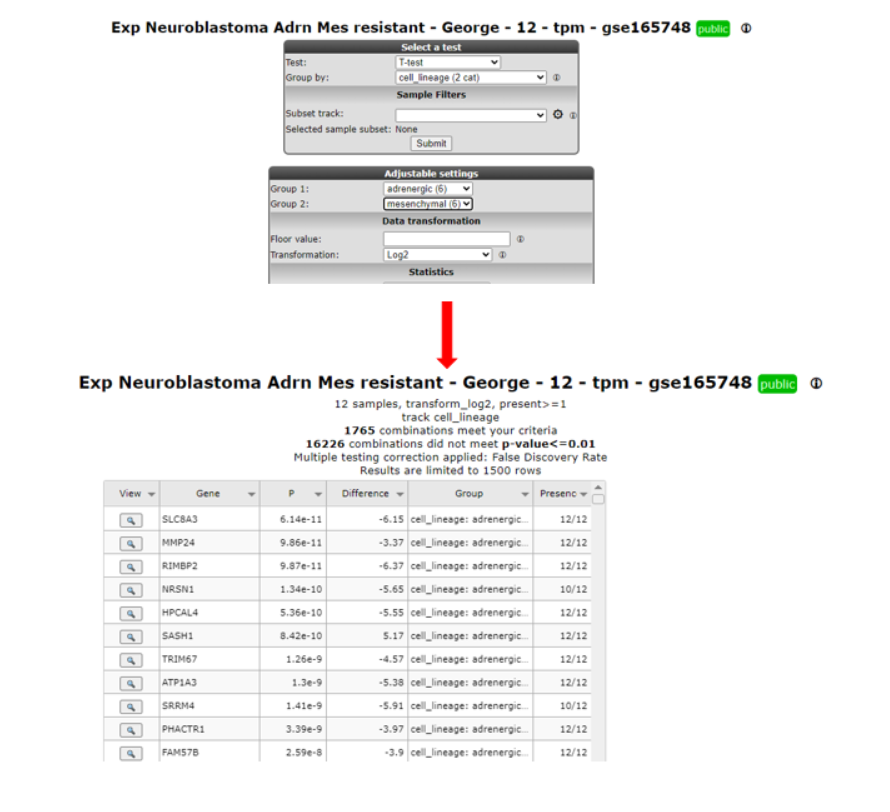
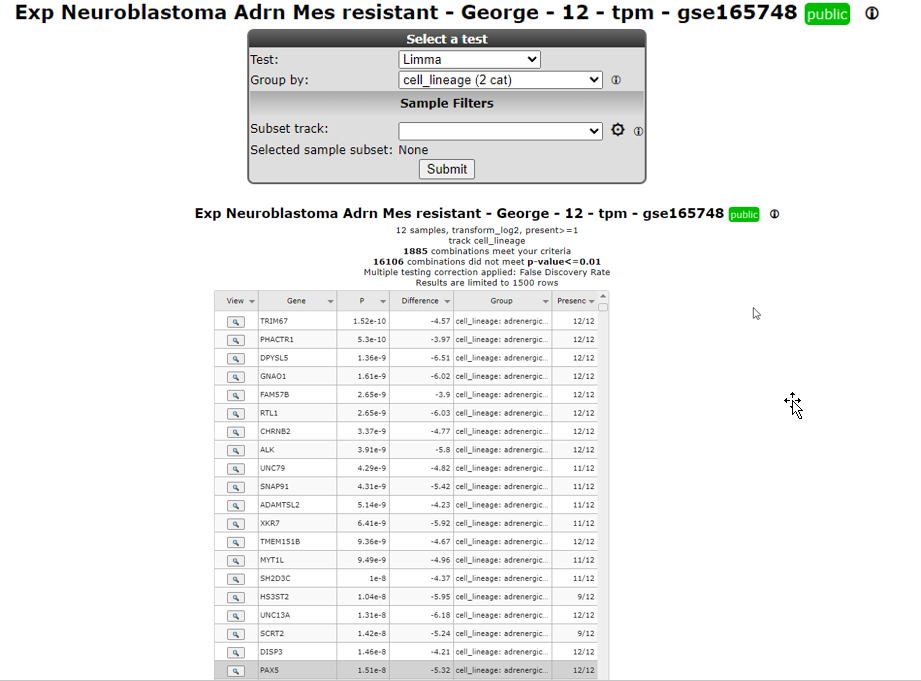
adding MA and vulcano plots options

Changed region(s): [[0.0, 0.0, 1.0, 1.0], [0.8494, 0.5859, 0.8798, 0.6167]]

diff --git a/docs/Differential_Expression.md b/docs/Differential_Expression.md
@@ -95,10 +95,10 @@ The actual result of the ANOVA calculations is shown in the table under the grap
   
 R2 displays the mRNA expression of the samples in a splitted plot in which per group the samples are ordered with increasing expression (Figure 4). Note that the "alive" annotation is in the second row (track) beneath the graph.
 
-   ![](_static/images/FindDiff/DifferentialExpress_Result.png "Figure 4: Order the samples per group with increasing expression.")
+   ![](_static/images/FindDiff/DifferentialExpress_Result.png "Figure 5: Order the samples per group with increasing expression.")
 
 
-[**Figure 4: Order the samples per group with increasing expression.**](_static/images/FindDiff/DifferentialExpress_Result.png)
+[**Figure 5: Order the samples per group with increasing expression.**](_static/images/FindDiff/DifferentialExpress_Result.png)
 
 These results can also be shown in different types of plots (Figure 5).
 1. Scroll down the window to the Adjustable settings menu.
@@ -106,9 +106,9 @@ These results can also be shown in different types of plots (Figure 5).
 3. Note that you can change the order of the groups with *Order Groups By*, let's take **median (numeric Y)** in our case.
 4. Click **Submit**. The resulting graph is adapted accordingly.
 
-![](_static/images/FindDiff/DifferentialExpression_AdaptGraphDotPlots.png "Figure 5: Adapting the Graph type to Dot plot, change order and set Color by Track")
+![](_static/images/FindDiff/DifferentialExpression_AdaptGraphDotPlots.png "Figure 6: Adapting the Graph type to Dot plot, change order and set Color by Track")
 
-[**Figure 5: Adapting the Graph type to Dot plot, change order and set Color by Track**](_static/images/FindDiff/DifferentialExpression_AdaptGraphDotPlots.png)
+[**Figure 6: Adapting the Graph type to Dot plot, change order and set Color by Track**](_static/images/FindDiff/DifferentialExpression_AdaptGraphDotPlots.png)
 
 
 The difference in expression between the groups can be shown more dramatically by plotting the data without a log2 transformation. Make sure to use log2 transformation in scientific reports, though, as untransformed mRNA gene expression data is hardly ever normally distributed.
@@ -118,9 +118,9 @@ The difference in expression between the groups can be shown more dramatically b
 
 The resulting 2 graphs also depicted in different types of plots in Figure 6 show the difference between the expression values in the two groups more dramatically.
 
-![](_static/images/FindDiff/DifferentialExpression_Barplotv1.png "Figure 6: The same data now represented without transformation in bar/box plots")
+![](_static/images/FindDiff/DifferentialExpression_Barplotv1.png "Figure 7: The same data now represented without transformation in bar/box plots")
 
-[**Figure  6: The same data now represented without transformation in bar/box plots**](_static/images/FindDiff/DifferentialExpression_Barplotv1.png)
+[**Figure  7: The same data now represented without transformation in bar/box plots**](_static/images/FindDiff/DifferentialExpression_Barplotv1.png)
 
 ------------------
 ![](_static/images/R2d2_logo.png)**Did you know that samples can be filtered and/or marked?**
@@ -129,7 +129,7 @@ The resulting 2 graphs also depicted in different types of plots in Figure 6 sho
 
 ![](_static/images/FindDiff/DifferentialExpress_SampleFilterDropdown.png)
 
-[**Figure 7: Sample selection with the Sample Filter**](_static/images/FindDiff/DifferentialExpress_SampleFilterDropdown.png)
+[**Figure 8: Sample selection with the Sample Filter**](_static/images/FindDiff/DifferentialExpress_SampleFilterDropdown.png)
 
 
 
@@ -137,14 +137,14 @@ The resulting 2 graphs also depicted in different types of plots in Figure 6 sho
 
 ![](_static/images/FindDiff/DifferentialExpress_SampleFilterAdvanced.png)
 
-[**Figure 7: Advanced sample selection**](_static/images/FindDiff/DifferentialExpress_SampleFilterAdvanced.png)
+[**Figure 9: Advanced sample selection**](_static/images/FindDiff/DifferentialExpress_SampleFilterAdvanced.png)
 
-*In the samples to mark section, a sample name can be entered that will be highlighted in the resulting graph; ideal for publication purposes.*
+*In the samples to mark section, a sample name can be entered that will be highlighted in the resulting graph; ideal for publication purposes. Also note that in the interactive plot section you can mark samples by clicking on the dots.*
 
 
 ![](_static/images/FindDiff/DifferentialExpress_SampleFilterMarkedSample.png)
 
-[**Figure 7: Graph with sample selection INSS 3 and 4 and a marked sample**](_static/images/FindDiff/DifferentialExpress_SampleFilterMarkedSample.png)
+[**Figure 10: Graph with sample selection INSS 3 and 4 and a marked sample**](_static/images/FindDiff/DifferentialExpress_SampleFilterMarkedSample.png)
 
 
 --------
@@ -156,9 +156,9 @@ It would be a pretty tedious job to look for all genes whether they are differen
 2. In field 3 of the R2 step-by-step guide you find two options to find differential expressed gene lists: 'Find Differential expression between two groups' and  Differential expression between multiple groups (Figure 8). 
 3. Both types of Differential expression modules harbor specific statistical tests. Depending on your chosen dataset, number of groups you want to test and the type of data (RNAseq,microarrays) you can choose from several statistical tests.
 
-   ![](_static/images/FindDiff/DifferentialExpression_Selectgroups.png "Figure 8: Selecting Find Differential Expression.")
+   ![](_static/images/FindDiff/DifferentialExpression_Selectgroups.png "Figure 11: Selecting Find Differential Expression.")
 
-   [**Figure 8: Selecting Find Differential Expression.**](_static/images/FindDiff/DifferentialExpression_Selectgroups.png)
+   [**Figure 11: Selecting Find Differential Expression.**](_static/images/FindDiff/DifferentialExpression_Selectgroups.png)
 
 4. Select **"Differential expression between two groups"** and click **Next**.
   
@@ -170,9 +170,9 @@ A special remark for the **DESeq2 algorithm** is at place here. This test is onl
 Using the DESEq2 algorithm in case of RNAseq is often appreciated since this is a well established statistical test package dedicated to data such as RNAseq data. In the dataset selection grid box you can search for datasets which have **deseq2_rlog** or **deseq2_vst** as normalization procedure. Datasets with this annotation have three slots, rlog normalized data, deseq normalized data (normcounts) and a counts slot. This counts slot is used when you run the DESeq2 algorithm on the fly for two group comparisons.  
 
 
-   ![](_static/images/FindDiff/DifferentialExpress_deseq2select.png "Figure 9: Selecting Find Differential Expression.")
+   ![](_static/images/FindDiff/DifferentialExpress_deseq2select.png "Figure 12: Selecting Find Differential Expression.")
 
-   [**Figure 9: Selecting the DESEq2 test.**](_static/images/FindDiff/DifferentialExpress_deseq2select.png)
+   [**Figure 12: Selecting the DESEq2 test.**](_static/images/FindDiff/DifferentialExpress_deseq2select.png)
 
 
 
@@ -184,25 +184,25 @@ In our case we continue with the Tumor Neuroblastoma dataset and the Differentia
 1. Now we also make the choice for the two groups. Select behind *Group by* the track **Alive (2cat)** again. Click **Submit**.  
 
 
-   ![](_static/images/FindDiff/DifferentialExpress_AdaptParamv1.png "Figure 10: Differential expression parameters")
+   ![](_static/images/FindDiff/DifferentialExpress_AdaptParamv1.png "Figure 13: Differential expression parameters")
 
-   [**Figure 10: Differential expression parameters**](_static/images/FindDiff/DifferentialExpress_AdaptParamv1.png)
+   [**Figure 13: Differential expression parameters**](_static/images/FindDiff/DifferentialExpress_AdaptParamv1.png)
 
 3. An extra menu shows up with many options. For now we only adjust the required Group 1 and Group 2 setting: we choose the value **no (33)** for *Group 1* and **yes (55)** for *Group 2*.
 4.  Click **Submit**.
 
-![](_static/images/DifferentialExpress_Progress.png "Figure 11: Progress dialog during on the fly calculation")
+![](_static/images/DifferentialExpress_Progress.png "Figure 14: Progress dialog during on the fly calculation")
 
-   [**Figure 11: Progress dialog during on the fly calculation**](_static/images/DifferentialExpress_Progress.png)
+   [**Figure 14: Progress dialog during on the fly calculation**](_static/images/DifferentialExpress_Progress.png)
 
-The result is a list of genes that is ordered by the most significant differential expression between the groups that you chose (Figure 12). A short summary of the calculation is given above the table; ~ 2600 genes have met the criteria set by default; their expression exhibits a correlation with the separation in the two groups.  
+The result is a list of genes that is ordered by the most significant differential expression between the groups that you chose (Figure 15). A short summary of the calculation is given above the table; ~ 2600 genes have met the criteria set by default; their expression exhibits a correlation with the separation in the two groups.  
 The generated list can be sorted or filtered by any of the column headers in the grid, such as by the p-value (P) or the difference.  
   
 In the right menu numerous modules can be selected to continue the analysis. Also, the generated list can be extracted to continue for further usage outside R2. As indicated in the right menu
 
-   ![](_static/images/FindDiff/DifferentialExpress_Genelistv2.png "Figure 13: Genes differentially expressed between groups")
+   ![](_static/images/FindDiff/DifferentialExpress_Genelistv2.png "Figure 15 Genes differentially expressed between groups")
 
-   [**Figure 13: Genes differentially expressed between groups.**](_static/images/FindDiff/DifferentialExpress_Genelistv2.png)
+   [**Figure 15: Genes differentially expressed between groups.**](_static/images/FindDiff/DifferentialExpress_Genelistv2.png)
 
 
 -----------------
@@ -210,7 +210,7 @@ In the right menu numerous modules can be selected to continue the analysis. Als
 Step 5: Correct for paired analysis
 ---------------
 
-A paired analysis is ofted performed when observations are natural paired or matched such as in this example. 
+A paired analysis is often performed when observations are natural paired or matched such as in this example. 
 
 1. Select in the main screen the following dataset. Exp Neuroblastoma Adrn Mes resistant - George - 12 - tpm - gse165748 and differential expression between two groups, select group by cell_lineage and click submit. Subsequently select adrenergic and mesenchymal for the groups and click the lower submit button.  Take a look at the number of found combinations and continue with adapting the settings in the adjustable settings box below the list of combinations.
 
@@ -218,13 +218,13 @@ A paired analysis is ofted performed when observations are natural paired or mat
 
    [**Figure 14: Genes differentially expressed between groups.**](_static/images/FindDiff/DifferentialExpres_nocorrectfor.png).
 
-2. In the select a test box, select Limma and again for Group by: Cell_lineage and click submit. Adrenergic and mesenchymal for the groups and now you can select track you want to correct for in this case, the  genomic_mycn_status, click the lower submit button.
+2. In the select a test box, select Limma and again for Group by: Cell_lineage and click submit. Select Adrenergic and mesenchymal for the groups and now you can select a track you want to correct for in this case, the  genomic_mycn_status, click the lower submit button.
 
    ![](_static/images/FindDiff/DifferentialExpres_withcorrectfor.png "Figure 15: Genes differentially expressed between groups")
 
    [**Figure 15: Genes differentially expressed between groups with correction.**](_static/images/FindDiff/DifferentialExpres_withcorrectfor.png)
 
-3. After correction for the genomic_mycn status more genes are found to be significant differentially expressed between the two groups. For example also the PAX5 gene appears in the list which could be a candidate for further investigation.
+3. After correction for the genomic_mycn status more genes are found to be significant differentially expressed between the two groups. For example also the PAX5 gene appears higher and more significant in the list which could be a candidate for further investigation.
 
    ![](_static/images/FindDiff/DifferentialExpres_withcorPAX5.png "Figure 16: Genes differentially expressed between groups")
 
@@ -264,9 +264,9 @@ As mentioned above, Find Differential Expression for multiple groups can also be
 2. Select **Differential expression between multiple groups** and click **Next**
 3. Select for *Group by* the value **inss (5 cat)** and leave all the other settings at their default value. Click **Submit**.
 
-![](_static/images/FindDiff/DifferentialExpress_AdaptParamv2.png "Figure 11: Genes differentially expressed between groups")
+![](_static/images/FindDiff/DifferentialExpress_AdaptParamv2.png "Figure 17: Genes differentially expressed between groups")
 
-[**Figure 11: Genes differentially expressed between groups.**](_static/images/FindDiff/DifferentialExpress_AdaptParamv2.png)
+[**Figure 17: Genes differentially expressed between groups.**](_static/images/FindDiff/DifferentialExpress_AdaptParamv2.png)
 
 4. A list of differentially expressed genes between the groups is generated. Of course, now that we have more than two groups, the table no longer contains the Difference column and group order column.
 
@@ -277,81 +277,75 @@ Step 7: Inspecting single genes
 
 1. Choose one of the genes in the table to inspect further.
 2. Hover over the magnify symbol in the list next to the gene name to find a description of the gene. 
-3. Now click on the magnify symbol. A similar graph is produced as for MYCN, the differential
-    expression is more pronounced for this gene (Figure 12).
+3. Now click on the magnify symbol. A similar graph is produced as for TF, the differential
+    expression is more pronounced for this gene (Figure 18). In stage 4s, even indicating  based on the TF expresion that there is possible subgroup within the INSS 4s stage.
 4. In the
     generated picture the samples are not ordered by their gene
     expression. Go to the adjustable settings menu and select **Track and
     gene sort** in the *Extra Graph Option* pulldown menu. Click
     **Submit**.
 
-![](_static/images/FindDiff/DifferentialExpress_TopGene.png "Figure 12: Hover over and click on any gene of interest")
+![](_static/images/FindDiff/DifferentialExpress_TopGene.png "Figure 18: Hover over and click on any gene of interest")
 
-[**Figure 12: Hover over and click on any gene of interest**](_static/images/FindDiff/DifferentialExpress_TopGene.png)
+[**Figure 18: Hover over and click on any gene of interest**](_static/images/FindDiff/DifferentialExpress_TopGene.png)
 
 
 --------------
 Step 8: Plot all genes and adapt visualization: Volcano plot etc
 ---------------
 
-1.  The tab with the list of differentially expressed genes (Figure 11) is still open. Click on this tab.
+1.  The tab with the list of differentially expressed genes (Figure 15) is still open. Click on this tab.
 2.  Most of the functionalities in the right panel of this window will be explored
     in more advanced tutorials (K-Means clustering etc.). We will explore one
     additional data visualization however to plot all genes of this
-    analysis. In the right menu click see Figure 11 'Plot all genes (xy,
+    analysis. In the right menu click see Figure 15 'Plot all genes (xy,
     volcano, etc.)'.
 
-
-
-3. The resulting plot shows all genes of the list in a XY-plot; datapoints above and below the diagonal are
+3. The resulting plot shows all genes of the list in a XY-plot, MA-plot and vulcano plot depending on your choice; in case of the XY datapoints above and below the diagonal are
    differentially expressed. Hovering over the points shows the
-   genesymbol, in this case the NTRK1 gene (Figure 16). To speed up the
+   genesymbol, clicking on the dots will annotate the dots with the gene name., To speed up the
    graph generation this information is not automatically loaded: click
    on the "add hovering" button below the graph to add
    this information. Note: every plot in R2 with larger amounts of
-   datapoints (>5000) will have this "add hovering" button.
+   datapoints (>5000) will have this "add hovering" button. Adapting the plot parameters in the Adjustable settings menu will also adapt the graph on the fly.
 
-   ![](_static/images/FindDiff/DifferentialExpress_XYplot.png "Figure    13: XY plot of all genes differentially expressed in the current    track;")
+   ![](_static/images/FindDiff/DifferentialExpress_vulcanoplot.png "Figure 19: Different plots of all genes differentially expressed in the current track;")
 
-   [**Figure 13: XY plot of all genes differentially expressed in the current    track;**](_static/images/FindDiff/DifferentialExpress_XYplot.png)
+   [**Figure 19: XY, MA , Vulcano plot of all genes differentially expressed in the current    track;**](_static/images/FindDiff/DifferentialExpress_vulcanoplot.png)
 
-4. Clicking on the datapoint in the plot opens up a new window showing the expression
-   of the gene in the two groups as a box plot.
+4. Right clicking on the datapoint in the plot opens up a new window showing the expression
+   of the gene in the two groups as a violin plot.
 
-   ![](_static/images/FindDiff/DifferentialExpress_BoxdotplotCircle.png "Figure    14: Differential expression of    NTRK1")
+   ![](_static/images/FindDiff/DifferentialExpress_Violinplot.png "Figure  20: Differential expression of MYCN")
 
-   [**Figure 14: Differential expression of    NTRK1**](_static/images/FindDiff/DifferentialExpress_BoxdotplotCircle.png)
+   [**Figure  20 : Differential expression of MYCN**](_static/images/FindDiff/DifferentialExpress_Violinplot.png)
 
-5. R2 allows further annotation of the XY plot of all genes; in the XY
-   plot window (still open in your browser) scroll down and adapt the
-   settings; add a genesymbol to mark, eg AKR1C1; choose a KEGG pathway
-   to emphasize, e.g. DNA replication and set the 'Draw fold lines'
-   option to 'yes'.
 
-   ![](_static/images/FindDiff/DifferentialExpress_AdjustAllgenesv1.png "Figure    15: Adjustable settings for the all genes plot")
 
-   [**Figure 15: Adjustable settings for the all genes plot**](_static/images/FindDiff/DifferentialExpress_AdjustAllgenesv1.png)
-
-6. Click redraw image. The plot has been adapted to show the AKR1C1
-   genesymbol, DNA-replication genes are highlighted in red. Fold
+6. The plot has been adapted to show the AKR1C1
+   genesymbol also  DNA-replication genes are highlighted in red. Fold
    change lines show the regions where differential expression is 1 and
    2 fold (Figure 16). Note that most genes of the DNA replication
    pathway seem to be located below the diagonal.
 
-   ![](_static/images/FindDiff/DifferentialExpres_graphtypes.png "Figure    16: Adjusted visualization of gene expression,hovering over the dots    shows the    gene name.")
+   ![](_static/images/FindDiff/DifferentialExpres_DNArepl.png "Figure 21: Adjusted visualization of gene expression,hovering over the dots    shows the    gene name.")
 
-   [**Figure 16: Adjusted visualization of gene expression,hovering over the dots shows the    gene name.**](_static/images/FindDiff/DifferentialExpres_graphtypes.png)
+   [**Figure 21: Adjusted visualization of gene expression,hovering over the dots shows the    gene name.**](_static/images/FindDiff/DifferentialExpres_DNArepl.png)
 
 7. R2 can visualize the same data also as a Volcano plot or an MA plot.
    In the Adjustable Settings dialog change the Plot type to Volcano or
-   MA (Figure 16). Note that the distinct
+   MA (Figure 21). Note that the distinct
    characteristics of the AKR1C1 gene and the DNA replication are more
    obvious in the Volcano plot. The DNA replication pathway statistics
    will be explored in more detail in the 'Find genes correlating with
    your gene of interest'-tutorial
 
+8. In another example in the selected Coloncarcinoma TCGA set, some Ribosomal gene categories which were selected in the gene filter. The KRT16-gene was selected and adapted in the Adjustable settings box.
+
+   ![](_static/images/FindDiff/DifferentialExpression_vulcano_emphasize.png "Figure 22: Adjustable settings for the all genes plot")
 
 
+[**Figure 22 : Adjustable settings for the all genes plot**](_static/images/FindDiff/DifferentialExpression_vulcano_emphasize.png)
 
 --------------
 Step 9: Using the Enrichr
@@ -359,20 +353,21 @@ Step 9: Using the Enrichr
 
 The right menu also allows you to take your result list of differentially expressed genes (DEG) outside R2 to the public available Enrichr platform. Enrichr (https://maayanlab.cloud/Enrichr/enrich) is a web-based platform designed for gene set enrichment analysis (GSEA) and functional annotation of gene lists. It allows you to gain insights into the biological processes, pathways, and functions associated with their gene sets of interest. The Enrichr performs an enrichment analysis by comparing the generated R2-list against a large collection of well curated databases such as Gene Ontlogy, KEGG pathways and disease-associated gene sets
 
-![](_static/images/FindDiff/DifferentialExpres_enrichr.png "Figure    16: Adjusted visualization of gene expression,hovering over the dots    shows the    gene name.")
+![](_static/images/FindDiff/DifferentialExpres_enrichr.png "Figure    23 : Adjusted visualization of gene expression,hovering over the dots    shows the    gene name.")
 
-[**Figure 17: Taking the result to the Enrichr platform.**](_static/images/FindDiff/DifferentialExpres_graphtypes.png)
+[**Figure 23: Taking the result to the Enrichr platform.**](_static/images/FindDiff/DifferentialExpres_enrichr.png)
 
-Figure 17 shows the Enrichr button you can click directly when the DEG list genes is ready, in the next screen you can select  just one group when coming from the two group analysis or you want to include and even add of delete genes from list. Hitting the submit button will direct lead to the Enrichr platform. 
+Figure 23 shows the Enrichr button you can click directly when the DEG list genes is ready, in the next screen you can select  just one group when coming from the two group analysis or you want to include and even add of delete genes from list. Hitting the submit button will direct lead to the Enrichr platform. 
 
 
 
 
 -------------------------------------------
 ![](_static/images/R2d2_logo.png)**Did you know that you can tailor visualization of specific genes in one go?**
->  *You can annotate gene names (gene symbols) by providing them in the 'Mark genes' field of the Adjustable Settings panel. By default, these will appear in red, size=10, on your plot. You can change the size and/or color of these genes either individually, or in groups.*
->
-> *Please take note of the following rules: to mark groups of genes for which the same criteria apply,
+
+* You can annotate gene names (gene symbols) by providing them in the 'Mark genes' field of the Adjustable Settings panel. By default, these will appear in red, size=10, on your plot. You can change the size and/or color of these genes either individually, or in groups.
+* Clicking omn the dots will annotate the dots with the gene name.  
+* Please take note of the following rules: to mark groups of genes for which the same criteria apply,
 first type the genes (comma separated), followed by :s=size, followed by :c=r,g,b  
 for single genes: gene1:s=25:c=0,0,255;gene2:s=20:c=200,0,0  
 for groups of genes: (gene1,gene2,gene3):s=25:c=0,0,255;(gene4,gene5,gene6):s=20:c=200,0,0"*
